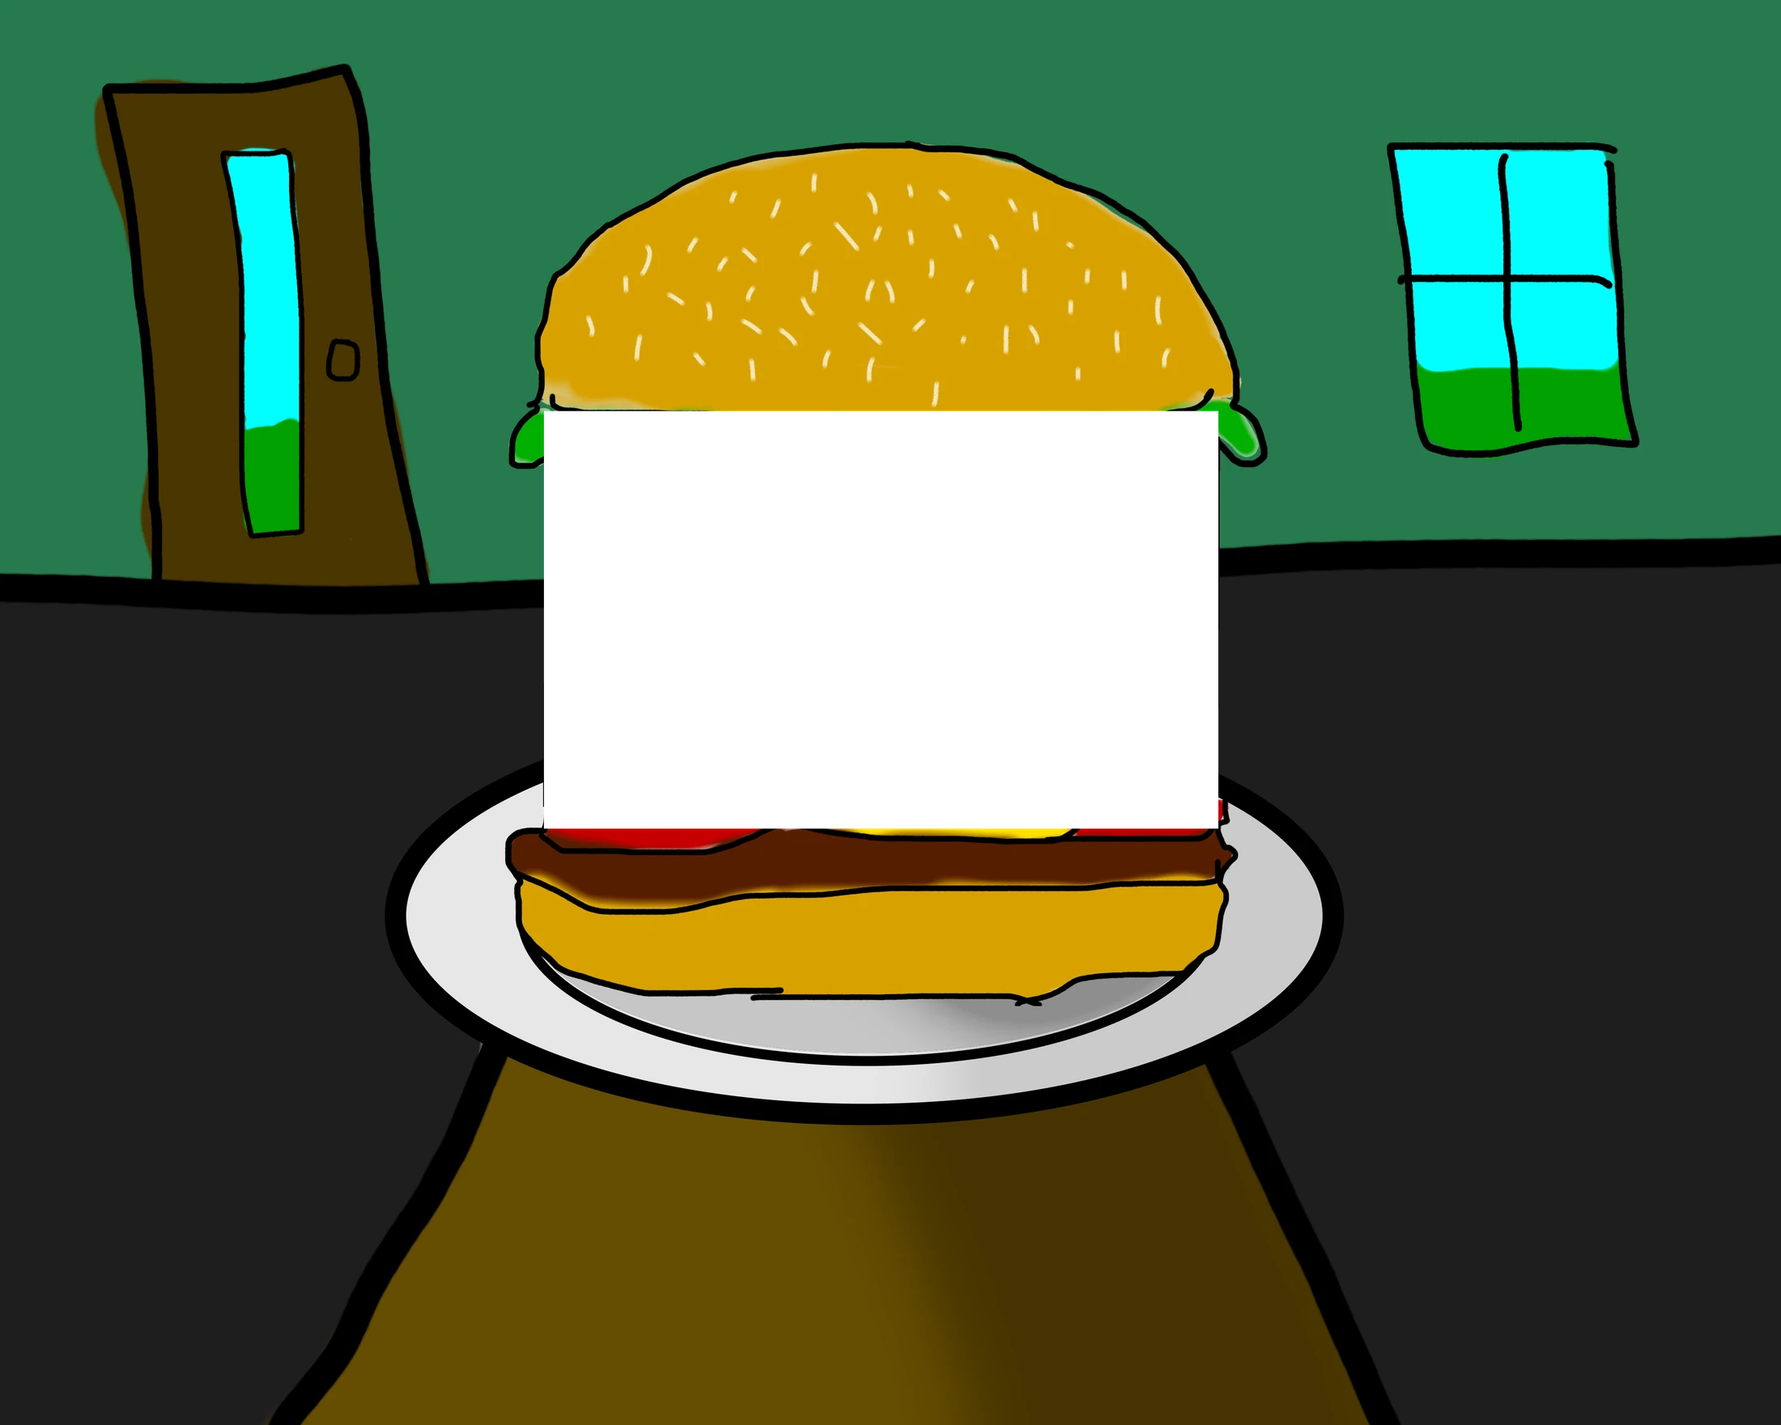
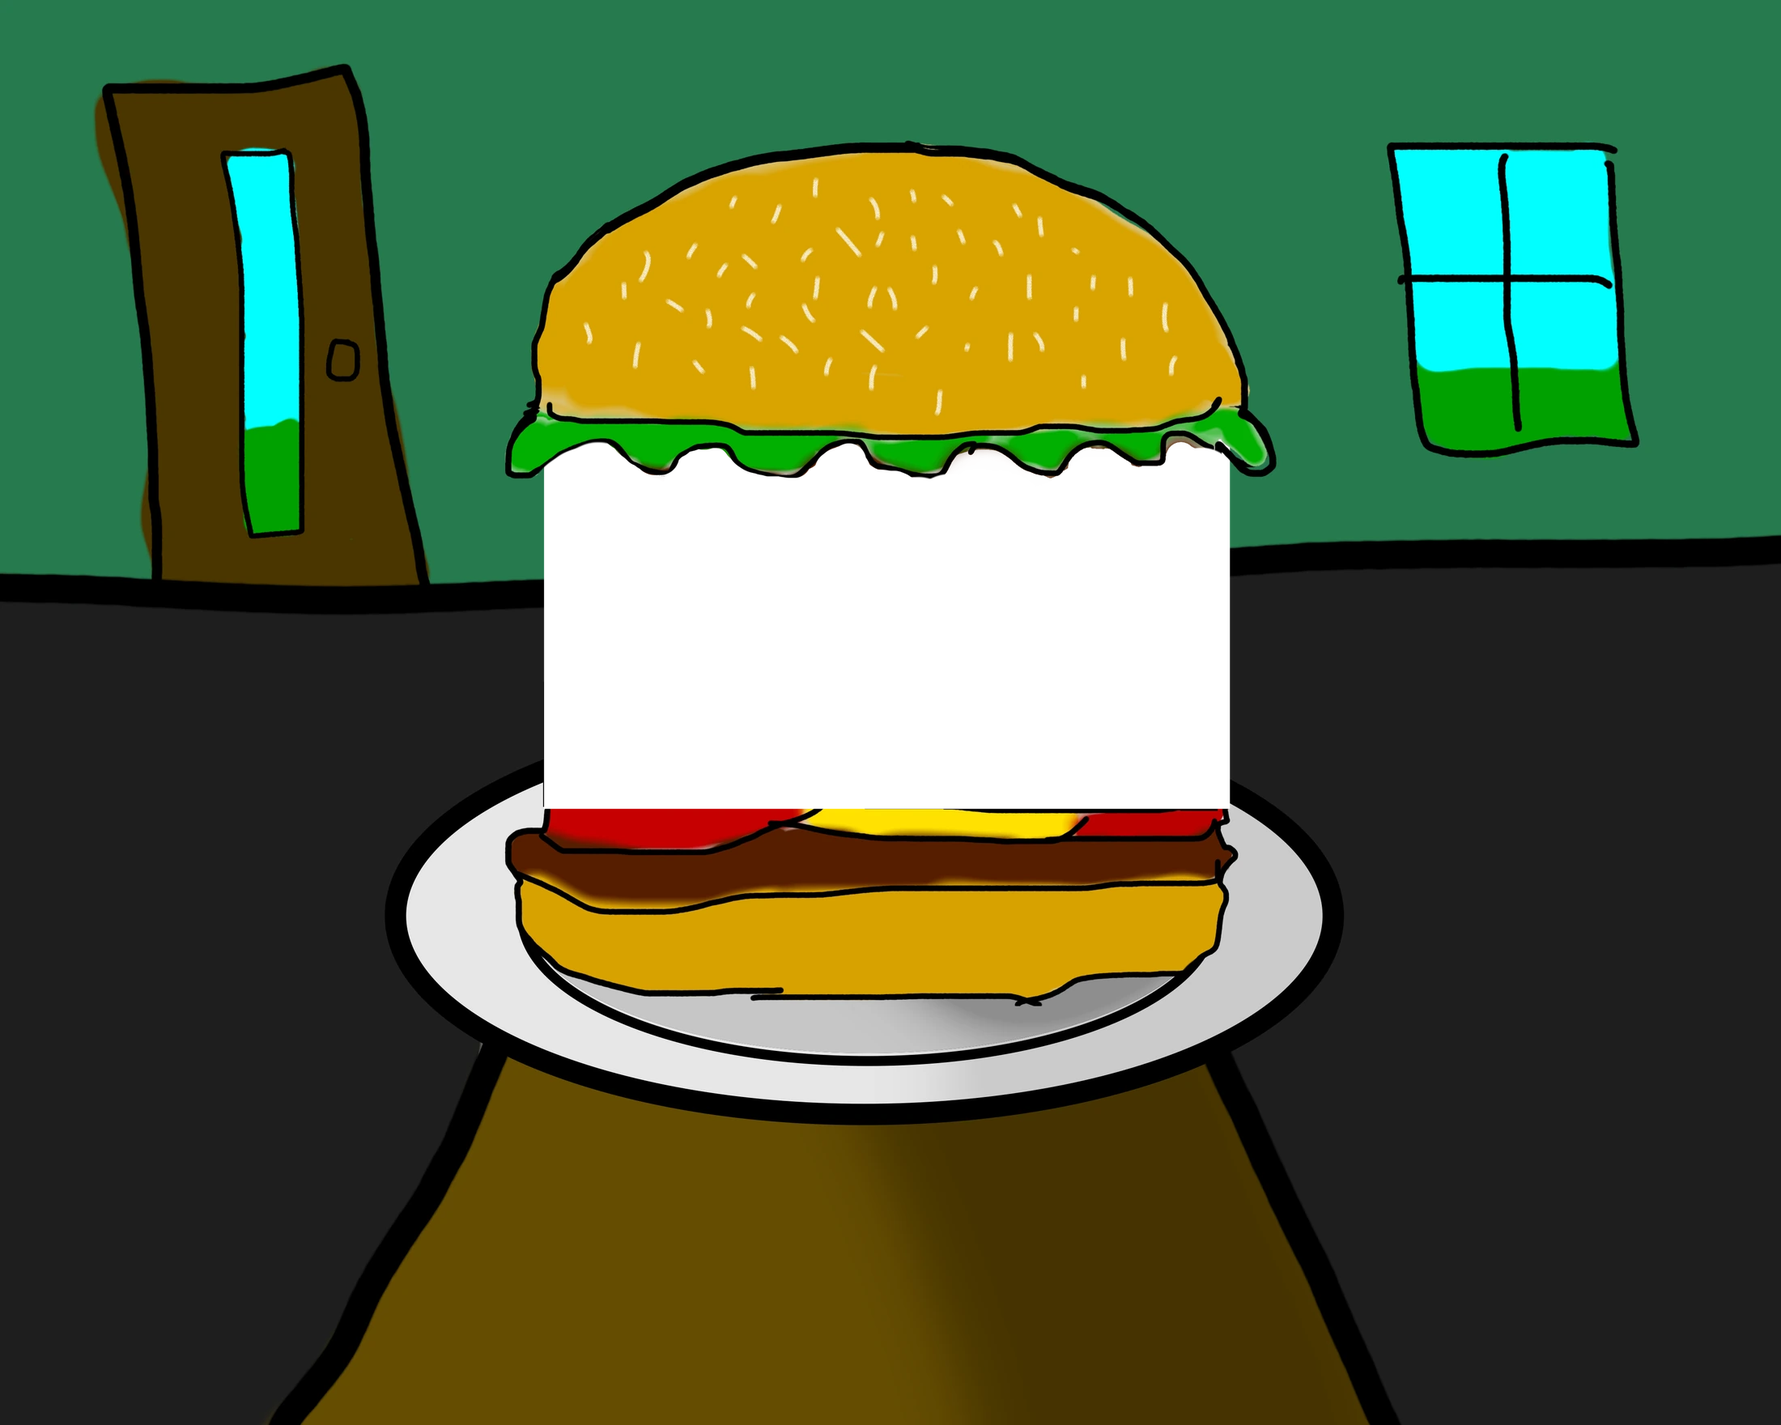
Switch hamburgernews.html to contain-fit and use the artist's own transparent cutout (#187)
Two changes from user feedback after seeing the first version live:

1. object-fit was cover, which crops the illustrated background to fill
   the viewport — fine on a normal window, but on a very wide desktop
   window it cropped the top of the bun and the plate off-screen, and
   on mobile a viewport-height miscalculation (percentage sizing on a
   position:fixed replaced element resolves against the "large" mobile
   viewport, not the actually-visible one) left the whole scene
   noticeably off-center with a dead gap at the bottom. Switched to
   object-fit: contain — the full illustrated scene is now always
   fully visible, letterboxed rather than cropped, at any viewport
   size or aspect ratio. layout()'s math changes from Math.max (cover)
   to Math.min (contain) to match, and now reads the live
   window.visualViewport size (with a window.innerWidth/Height
   fallback) with its own resize/scroll listeners, since that API
   tracks the actually-visible mobile viewport live instead of lagging
   behind while Safari's address bar animates in or out.

2. Replaces the manually-erosion-derived hamburger-news-bg.webp/
   -lettuce.png/-condiment.png three-layer setup with a single new
   background the user supplied with the video's slot (including the
   lettuce fringe's own scalloped dip into it) already cut transparent
   by hand — more precise than the original pixel-analysis approach,
   and it collapses the whole stage down to two layers: the video
[…]

diff --git a/videos/hamburgernews.html b/videos/hamburgernews.html
@@ -18,25 +18,28 @@
 <link rel="icon" type="image/png" sizes="16x16" href="/favicon-16x16.png">
 <style>
   /* Standalone page, same rebuild approach as videos.html/music.html/
-     live.html, but with its own drawn-scene background instead of a
-     plain color: hamburger-news-bg.webp is the full illustrated room
-     (door, window, floor, spotlight, burger) with a rectangular hole
-     punched through it where the video goes — see hamburger-news-lettuce
-     .png/-condiment.png below for what fills that hole back in.
+     live.html, but with a drawn-scene background: hamburger-news-bg.webp
+     is the full illustrated room (door, window, floor, spotlight,
+     burger) with the video's rectangular slot already cut transparent
+     by the artist — including the lettuce fringe's own scalloped dip
+     into that slot, preserved as partial/antialiased transparency
+     rather than a hard rectangle, so it blends with the video
+     underneath instead of needing a separate overlay sprite.
 
-     The three pieces are positioned every resize by replicating, in JS,
-     the exact same math the CSS `object-fit: cover` on #stageBg already
-     uses natively to scale/crop the background image itself — so the
-     video "hole" and its two overlay strips always land in the same
-     spot relative to the artwork, at any viewport size/aspect ratio,
-     cropping together with it instead of drifting apart. See layout()
-     at the bottom of this file for that math, and its comment for why
-     this needs JS at all rather than being pure CSS.
+     #stageBg renders with object-fit:contain — the whole scene is
+     ALWAYS fully visible, scaled to fit the viewport and letterboxed
+     (not cropped) on whichever axis doesn't match its own aspect ratio.
+     #pattySlot (the video) is repositioned to match on every resize by
+     a small JS layout() that replicates that same contain-fit math —
+     see its own comment below for why that needs JS at all rather than
+     being pure CSS.
 
-     Source art is 4096x3276 (saved scaled to 2200x1760, same aspect
-     ratio) — IMG_W/IMG_H and the *_RECT constants in layout() are all
-     expressed in that original pixel space so they're easy to re-derive
-     from the source file if the art ever changes. */
+     IMG_W/IMG_H and HOLE_RECT in layout() are expressed in the source
+     art's own original pixel space (4096x3276, before it was scaled
+     down for the saved hamburger-news-bg.webp) — easiest to re-derive
+     from the source file directly if the art ever changes; the saved
+     image being smaller doesn't matter since contain-fit only cares
+     about aspect ratio. */
   * { box-sizing: border-box; }
 
   html, body {
@@ -44,73 +47,50 @@
     padding: 0;
     height: 100%;
     overflow: hidden;
-    /* Sampled from the art's own floor color. Safari's elastic overscroll
-       bounce briefly reveals whatever's behind the fixed-position layers
-       below — without this it's the browser's default white, which reads
-       as a jarring flash against a dark illustrated scene. */
+    /* Sampled from the art's own floor color — shows in the contain-fit
+       letterbox bars, and stops Safari's elastic overscroll bounce from
+       flashing white against the illustrated scene. */
     background: #1e1e1e;
     font-family: Arial, Helvetica, sans-serif;
   }
 
-  /* The room + burger, cropped/centered to always fully cover the
-     viewport at any size or aspect ratio — same "scale up, crop the
-     overflow" behavior on desktop and mobile alike, just more
-     pronounced on a narrow phone screen. Native object-fit:cover, so
-     the browser handles the scaling itself; layout() below only has to
-     replicate its math for the three pieces layered on top of it. */
+  /* The room + burger, always shown in full (object-fit:contain, never
+     cover) — same behavior at every viewport size/aspect ratio, just
+     more or less letterboxed depending on how far off-ratio the window
+     is. pointer-events:none since this sits ABOVE #pattySlot in
+     z-index (its own transparent video-slot needs the opaque lettuce
+     fringe around the edges to visually overlap the video without
+     ever intercepting clicks meant for it — same trick used site-wide
+     for decorative art layered over interactive elements). */
   .stage-bg {
     position: fixed;
     inset: 0;
     width: 100%;
     height: 100%;
-    object-fit: cover;
+    height: 100dvh;
+    object-fit: contain;
     object-position: center;
-    z-index: 0;
+    z-index: 2;
     pointer-events: none;
   }
 
-  /* The video's actual footprint is smaller than this box — see
-     .patty-frame below — this outer box spans the full hole PLUS the
-     lettuce/condiment strips above and below it, painted solid black so
-     those two overlay images' own transparent gaps (the scalloped
-     lettuce valleys, the gaps beside the condiment wave) show black
-     underneath, same as the hand-drawn rectangle they're standing in
-     for, instead of showing whatever's behind this whole stage. */
-  .patty-band {
+  /* The video itself, sized/positioned every resize to land exactly in
+     the transparent slot cut into #stage-bg above it. Solid black so
+     the slot's own antialiased/partially-transparent edges (the
+     lettuce scallops dipping into it) blend against a plausible
+     "video screen" color rather than whatever would otherwise be
+     behind this stage. */
+  .patty-slot {
     position: fixed;
     z-index: 1;
     background: #000;
     overflow: hidden;
   }
-  /* Inset from .patty-band by plain CSS percentages, not JS — once the
-     band itself is correctly sized/positioned (layout()'s job), this
-     inner frame's position within it never changes relative to the
-     band, so it doesn't need its own resize-driven math. */
-  .patty-frame {
-    position: absolute;
-    left: 0;
-    width: 100%;
-    top: 14.895833%;
-    height: 79.479167%;
-  }
-  .patty-frame iframe {
+  .patty-slot iframe {
     display: block;
     width: 100%;
     height: 100%;
     border: 0;
-  }
-
-  /* The lettuce fringe and the condiment wave — cut from the same
-     source art, sitting in front of the video (z-index above
-     .patty-band) with pointer-events:none so they're purely decorative:
-     the video underneath stays fully clickable/scrubbable right through
-     them, same as the mockup's lettuce overlapping the player without
-     blocking it. */
-  .stage-lettuce,
-  .stage-condiment {
-    position: fixed;
-    z-index: 2;
-    pointer-events: none;
   }
 
   .back-link {
@@ -124,25 +104,27 @@
     text-decoration: underline;
     opacity: 0.85;
     /* The page behind this link is illustrated art, not a flat color —
-       unlike the plain-background version this replaces, contrast here
-       isn't guaranteed (light bun art can sit right under it), so this
-       needs its own legibility net. */
+       contrast isn't guaranteed (light bun art can sit right under it),
+       so this needs its own legibility net. */
     text-shadow: 0 1px 4px rgba(0, 0, 0, 0.85);
   }
   .back-link:hover { opacity: 1; }
 
   /* Real-viewport fullscreen fallback for hamburger-news-widget.html's
-     own fullscreen button — unchanged from before this page's background
-     was reworked. That widget lives in an iframe, and on iOS Safari —
-     which has no Fullscreen API at all for non-video elements — it
-     falls back to a CSS position:fixed trick that can only ever cover
-     the IFRAME'S OWN box, not the actual phone screen (position:fixed's
-     containing block is the iframe's own viewport). The widget posts a
-     message here instead, and this class — applied to the real iframe
-     element in THIS top-level document — takes over the actual screen;
-     the iframe's own contents (already 100% width/height inside it)
-     grow to fill it right along with it. */
-  .patty-frame.hn-fullscreen iframe {
+     own fullscreen button — unchanged from before this page's
+     background was reworked. That widget lives in an iframe, and on
+     iOS Safari — which has no Fullscreen API at all for non-video
+     elements — it falls back to a CSS position:fixed trick that can
+     only ever cover the IFRAME'S OWN box, not the actual phone screen
+     (position:fixed's containing block is the iframe's own viewport).
+     The widget posts a message here instead, and this class — applied
+     to the real iframe element in THIS top-level document — takes over
+     the actual screen; the iframe's own contents (already 100%
+     width/height inside it) grow to fill it right along with it. Needs
+     its own z-index above .stage-bg's 2, or the illustrated art (still
+     covering the full viewport in its own letterboxed layout) would
+     paint over the fullscreen video. */
+  .patty-slot.hn-fullscreen iframe {
     position: fixed;
     inset: 0;
     width: 100vw;
@@ -156,85 +138,66 @@
 
 <a class="back-link" href="/videos">&larr; Back to Videos</a>
 
-<img class="stage-bg" id="stageBg" src="/hamburger-news-bg.webp" alt="">
-
-<div class="patty-band" id="pattyBand">
-  <div class="patty-frame" id="pattyFrame">
-    <iframe src="/hamburger-news-widget.html"
-            title="Hamburger News"
-            allow="accelerometer; autoplay; clipboard-write; encrypted-media; gyroscope; picture-in-picture; fullscreen"
-            allowfullscreen></iframe>
-  </div>
+<div class="patty-slot" id="pattySlot">
+  <iframe src="/hamburger-news-widget.html"
+          title="Hamburger News"
+          allow="accelerometer; autoplay; clipboard-write; encrypted-media; gyroscope; picture-in-picture; fullscreen"
+          allowfullscreen></iframe>
 </div>
 
-<img class="stage-lettuce" id="stageLettuce" src="/hamburger-news-lettuce.png" alt="">
-<img class="stage-condiment" id="stageCondiment" src="/hamburger-news-condiment.png" alt="">
+<img class="stage-bg" id="stageBg" src="/hamburger-news-bg.webp" alt="">
 
 <script>
 (function () {
-  var pattyBand = document.getElementById('pattyBand');
-  var pattyFrame = document.getElementById('pattyFrame');
+  var pattySlot = document.getElementById('pattySlot');
   // Relayed from hamburger-news-widget.html's own fullscreen fallback —
-  // see .patty-frame.hn-fullscreen's own comment above for why this has
+  // see .patty-slot.hn-fullscreen's own comment above for why this has
   // to happen up here rather than inside that iframe.
   window.addEventListener('message', function (e) {
     if (!e.data || e.data.type !== 'knobsock-hamburger-fullscreen') return;
-    pattyFrame.classList.toggle('hn-fullscreen', !!e.data.active);
+    pattySlot.classList.toggle('hn-fullscreen', !!e.data.active);
   });
 
   // ---------- STAGE LAYOUT ----------
-  // #stageBg covers the viewport with native object-fit:cover, which the
-  // browser scales/crops on its own with no way to ask it "where did the
+  // #stageBg is shown with native object-fit:contain, which the browser
+  // scales/letterboxes on its own with no way to ask it "where did the
   // pixel that used to be at (x, y) in the source image end up on
-  // screen?" — nothing else here can line up with it without doing that
-  // same cover-fit math by hand and applying it to the video band and
-  // the two overlay images every time the viewport changes. A pure-CSS
-  // version of this (sizing a real box, not just an img/video, to
-  // "cover" its container while preserving a child's own coordinates
+  // screen?" — #pattySlot can't land in the artwork's transparent video
+  // slot without doing that same contain-fit math by hand and applying
+  // it every time the viewport changes. A pure-CSS version of this
+  // (sizing a real box, not just an img/video, to "contain" itself
+  // within its container while preserving a child's own coordinates
   // inside it) isn't reliably solvable with aspect-ratio/min-width
   // tricks across browsers, so this is plain JS instead.
-  //
-  // All the *_RECT constants below are in the ORIGINAL source art's own
-  // pixel space (4096x3276, before it was scaled down for the saved
-  // hamburger-news-bg.webp) — easiest to re-derive from the source file
-  // directly if the art ever changes, and it doesn't matter that the
-  // saved image is smaller: cover-fit only cares about aspect ratio.
   var IMG_W = 4096, IMG_H = 3276;
+  // The video's transparent slot in the source art, with a small margin
+  // added on every side so #pattySlot's solid black fully backs even
+  // the outermost antialiased pixels of the cut edge.
+  var HOLE_RECT = { x: 1246, y: 1000, w: 1587, h: 865 };
 
-  // The video's own black backdrop band: spans the hole PLUS the
-  // lettuce/condiment strips above and below it (see .patty-band's own
-  // comment for why). .patty-frame's inset within this is fixed CSS
-  // percentages, not part of this math.
-  var BAND_RECT = { x: 1251, y: 945, w: 1551, h: 960 };
-  // The lettuce fringe strip, and the condiment-wave strip — each
-  // positioned independently so they land exactly back where they were
-  // cut from, in front of the video band.
-  var LETTUCE_RECT = { x: 1251, y: 945, w: 1551, h: 147 };
-  var COND_RECT = { x: 1251, y: 1830, w: 1551, h: 75 };
-
-  var pattyBandEl = pattyBand;
-  var lettuceEl = document.getElementById('stageLettuce');
-  var condEl = document.getElementById('stageCondiment');
-
-  function place(el, rect, scale, offX, offY) {
-    el.style.left = (offX + rect.x * scale) + 'px';
-    el.style.top = (offY + rect.y * scale) + 'px';
-    el.style.width = (rect.w * scale) + 'px';
-    el.style.height = (rect.h * scale) + 'px';
+  // window.innerWidth/innerHeight lag behind on iOS Safari while the
+  // address bar is animating in/out of view — visualViewport tracks the
+  // actual visible area live and fires its own resize event when that
+  // chrome changes, which plain 'resize' doesn't always do reliably.
+  // Falls back to window sizing on browsers without the API.
+  function viewportSize() {
+    var vv = window.visualViewport;
+    return vv ? { w: vv.width, h: vv.height } : { w: window.innerWidth, h: window.innerHeight };
   }
 
   function layout() {
-    var vw = window.innerWidth, vh = window.innerHeight;
-    // Same formula object-fit:cover uses internally: scale up by
-    // whichever axis needs it more, so the image fully covers the
-    // viewport on both axes, then center and let the larger axis
-    // overflow (get cropped).
-    var scale = Math.max(vw / IMG_W, vh / IMG_H);
-    var offX = (vw - IMG_W * scale) / 2;
-    var offY = (vh - IMG_H * scale) / 2;
-    place(pattyBandEl, BAND_RECT, scale, offX, offY);
-    place(lettuceEl, LETTUCE_RECT, scale, offX, offY);
-    place(condEl, COND_RECT, scale, offX, offY);
+    var vp = viewportSize();
+    // Same formula object-fit:contain uses internally: scale down by
+    // whichever axis needs it more, so the whole image fits inside the
+    // viewport on both axes with no cropping, then center it —
+    // Math.min instead of cover's Math.max is the only difference.
+    var scale = Math.min(vp.w / IMG_W, vp.h / IMG_H);
+    var offX = (vp.w - IMG_W * scale) / 2;
+    var offY = (vp.h - IMG_H * scale) / 2;
+    pattySlot.style.left = (offX + HOLE_RECT.x * scale) + 'px';
+    pattySlot.style.top = (offY + HOLE_RECT.y * scale) + 'px';
+    pattySlot.style.width = (HOLE_RECT.w * scale) + 'px';
+    pattySlot.style.height = (HOLE_RECT.h * scale) + 'px';
   }
 
   var rafPending = false;
@@ -250,6 +213,10 @@
   layout();
   window.addEventListener('resize', scheduleLayout);
   window.addEventListener('orientationchange', scheduleLayout);
+  if (window.visualViewport) {
+    window.visualViewport.addEventListener('resize', scheduleLayout);
+    window.visualViewport.addEventListener('scroll', scheduleLayout);
+  }
 })();
 </script>
 

diff --git a/hamburger-news-widget.html b/hamburger-news-widget.html
@@ -5,15 +5,16 @@
 <meta name="viewport" content="width=device-width, initial-scale=1.0">
 <title>Hamburger News Player</title>
 <style>
-  /* Sits inside the "patty frame" cut into videos/hamburgernews.html's
+  /* Sits inside the "patty slot" cut into videos/hamburgernews.html's
      illustrated background (hamburger-news-bg.webp) — that page sizes
-     and positions this iframe's box to land exactly in the hole drawn
-     into that artwork, cropping/scaling together with it on resize, so
-     nothing here needs to know about the surrounding burger art at all —
-     it only ever fills its own rectangular box, same contract as every
-     other embedded widget on this site. Mustard/ketchup accent instead
-     of this site's usual per-page palette (blue Videos, gold Music, red
-     Live) — this page earns its own condiment-colored identity. */
+     and positions this iframe's box to land exactly in the transparent
+     hole drawn into that artwork, scaling/repositioning together with
+     it (contain-fit, never cropped) on resize, so nothing here needs to
+     know about the surrounding burger art at all — it only ever fills
+     its own rectangular box, same contract as every other embedded
+     widget on this site. Mustard/ketchup accent instead of this site's
+     usual per-page palette (blue Videos, gold Music, red Live) — this
+     page earns its own condiment-colored identity. */
   * { box-sizing: border-box; }
   html, body {
     margin: 0;
